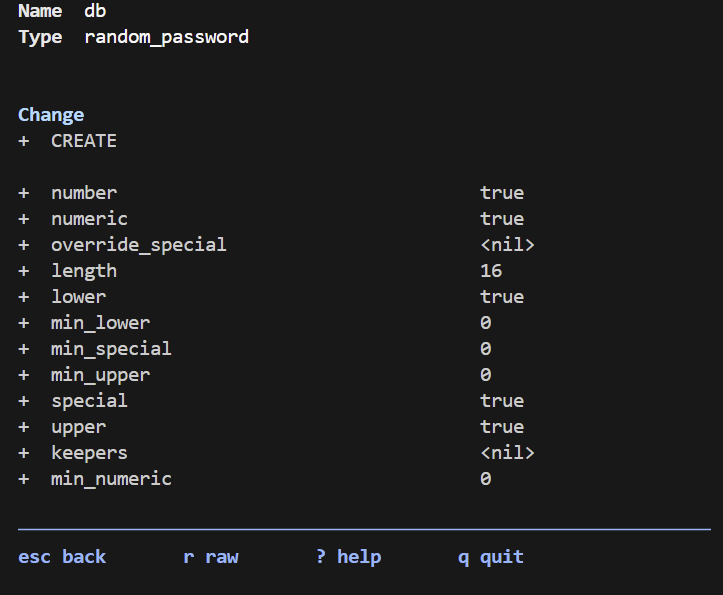
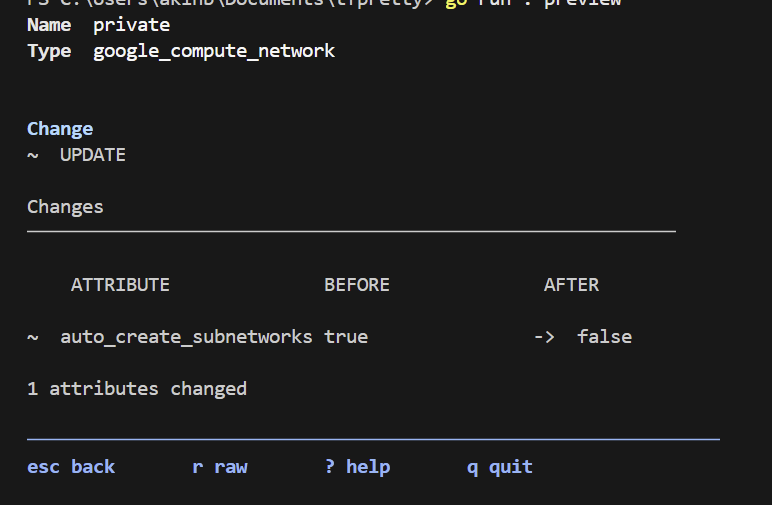
feat(plan): add loading spinner; tidy README screenshots

diff --git a/cmd/plan.go b/cmd/plan.go
@@ -1,18 +1,39 @@
 package cmd
 
 import (
+	"fmt"
+	"time"
+
 	tea "charm.land/bubbletea/v2"
 	"github.com/Akin-Genc0/tfpretty/internal/terraform"
 	"github.com/Akin-Genc0/tfpretty/internal/ui"
 	"github.com/spf13/cobra"
 )
 
+// spin shows a simple loading animation until stop is closed.
+func spin(stop <-chan struct{}) {
+	frames := []string{"/", "-", "\\", "|"}
+	for i := 0; ; i++ {
+		select {
+		case <-stop:
+			fmt.Print("\r  \r")
+			return
+		default:
+			fmt.Printf("\r%s running terraform plan...", frames[i%len(frames)])
+			time.Sleep(120 * time.Millisecond)
+		}
+	}
+}
+
 var planCmd = &cobra.Command{
 	Use:   "plan",
 	Short: "Display a formatted Terraform plan",
 	Long:  "Runs Terraform plan and displays a clearer, formatted result.",
 	RunE: func(cmd *cobra.Command, args []string) error {
+		stop := make(chan struct{})
+		go spin(stop)
 		output, err := terraform.RunPlan()
+		close(stop)
 		if err != nil {
 			return err
 		}

diff --git a/README.md b/README.md
@@ -1,37 +1,41 @@
 # tfpretty
 
-`tfpretty` is a terminal-based viewer for Terraform plans. It runs your plan and
-renders it in a clean, colorized, interactive TUI so changes are easier to read
-and understand than raw `terraform plan` output.
+Ever squinted at a wall of `terraform plan` output trying to figure out what's
+actually about to happen to your infrastructure? `tfpretty` fixes that. It runs
+your plan for you and drops it into a clean, colorized, interactive terminal UI
+so you can actually *see* what's changing instead of scrolling through a wall of text.
 
-![tfpretty plan screen](docs/images/plan-sreen.png)
+![tfpretty plan screen](docs/images/plan-screen.png)
 
-## Features
+## What it does
 
-- Interactive plan summary with create / update / delete / replace counts
-- Per-resource detail view of changed attributes
-- Raw Terraform resource (JSON) view for full inspection
-- Built-in help screen
-- Color-coded actions and layout that adapts to your terminal width
+- Gives you an at-a-glance summary: creates, updates, deletes, and replacements, all counted up front
+- Lets you drill into any resource to see exactly which attributes changed
+- Shows the raw Terraform resource JSON when you need the full, unfiltered truth
 
-## Requirements
+
+## Before you start
+
+You'll need:
 
 - [Terraform](https://developer.hashicorp.com/terraform/install) installed and on your `PATH`
-- [Go](https://go.dev/dl/) 1.27+ (only needed to install from source)
+- [Go](https://go.dev/dl/) 1.27+ only if you're installing from source
 
-## Installation
+## Installing
 
-Install the latest release with Go:
+The quickest way is with `go install`:
 
 ```powershell
 go install github.com/Akin-Genc0/tfpretty@latest
 ```
 
-This places a `tfpretty` binary in `$(go env GOPATH)\bin` (usually
-`%USERPROFILE%\go\bin`). Add that folder to your `PATH` so `tfpretty` works from
-any directory.
+This drops a `tfpretty` binary into `$(go env GOPATH)\bin` (usually
+`%USERPROFILE%\go\bin`). Make sure that folder is on your `PATH` so you can run
+`tfpretty` from anywhere.
 
-### Build from source
+### Building from source
+
+Prefer to build it yourself? Here you go:
 
 ```powershell
 git clone https://github.com/Akin-Genc0/tfpretty.git
@@ -39,33 +43,37 @@ cd tfpretty
 go build -o tfpretty.exe .
 ```
 
-## Usage
+## Using it
 
-Run it from inside any initialized Terraform workspace:
+Jump into any initialized Terraform workspace and run:
 
 ```powershell
 tfpretty plan
 ```
 
-`tfpretty` runs `terraform plan`, reads the JSON output, and opens the viewer.
+That's it. `tfpretty` runs `terraform plan` behind the scenes, parses the JSON
+output, and hands you the interactive viewer.
 
-![Detail view](docs/images/detail-screen.png)
+
+
+
+
 
 ### Keyboard controls
 
-| Key     | Action                          |
-| ------- | ------------------------------- |
-| `↑` / `↓` | Move between resources        |
-| `enter` | Open the selected resource detail |
-| `r`     | View the raw Terraform resource |
-| `?`     | Open the help screen            |
-| `esc`   | Go back to the plan             |
-| `q`     | Quit                            |
+| Key       | What it does                       |
+| --------- | ----------------------------------- |
+| `↑` / `↓` | Move between resources              |
+| `enter`   | Open the selected resource's detail |
+| `r`       | View the raw Terraform resource     |
+| `?`       | Open the help screen                |
+| `esc`     | Back to the plan                    |
+| `q`       | Quit                                |
 
-![Raw resource view](docs/images/raw-screen.png)
-
-## Development
+## Contributing / development
 
 ```powershell
 go test ./...
 ```
+
+Found a bug or have an idea? Issues and PRs are welcome
